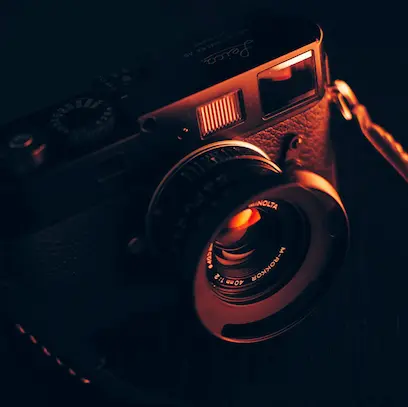
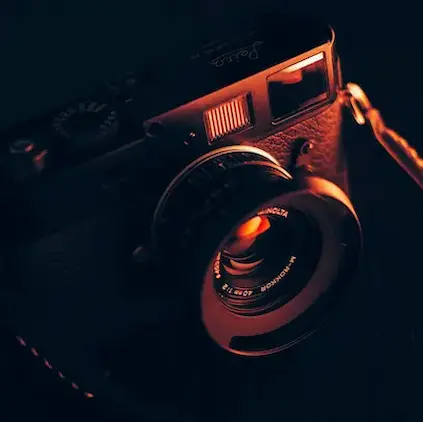
Différez le chargement des images hors écran :zap:

diff --git a/index.html b/index.html
@@ -58,10 +58,10 @@
 				<img src="./assets/images/slider/ryoji-iwata-wUZjnOv7t0g-unsplash.webp" width="990" height="458" class="d-block w-100" alt="Un homme en costume traverse une rue">
 			</div>
 			<div class="carousel-item">
-				<img src="./assets/images/slider/nicholas-green-nPz8akkUmDI-unsplash.webp" width="990" height="458" class="d-block w-100" alt="Une foule de jeunes gens enthousiastes lors d'un concert ou d'un événement.">
+				<img src="./assets/images/slider/nicholas-green-nPz8akkUmDI-unsplash.webp" loading="lazy" width="990" height="458" class="d-block w-100" alt="Une foule de jeunes gens enthousiastes lors d'un concert ou d'un événement.">
 			</div>
 			<div class="carousel-item">
-				<img src="./assets/images/slider/edward-cisneros-3_h6-1NPDGw-unsplash.webp" width="990" height="458" class="d-block w-100" alt="Les mariés s’embrassent devant leurs invités lors de la cérémonie">
+				<img src="./assets/images/slider/edward-cisneros-3_h6-1NPDGw-unsplash.webp" loading="lazy" width="990" height="458" class="d-block w-100" alt="Les mariés s’embrassent devant leurs invités lors de la cérémonie">
 			</div>
 		</div>
 		<button class="carousel-control-prev" type="button" data-bs-target="#carouselExampleIndicators" data-bs-slide="prev">
@@ -94,10 +94,10 @@
 			<img data-gallery-tag="Entreprises" class="gallery-item" src="./assets/images/gallery/entreprise/jason-goodman-tHO1_OuKbg0-unsplash.webp" alt="Une ambiance détendue au bureau entre deux jeunes collègues"/>
 			<img data-gallery-tag="Mariages" class="gallery-item" src="./assets/images/gallery/mariage/hannah-busing-RvF2R_qMpRk-unsplash.webp" alt="Deux mains qui s’unissent"/>
 			<img data-gallery-tag="Portrait" class="gallery-item" src="./assets/images/gallery/portraits/ade-tunji-rVkhWWZFAtQ-unsplash.webp" alt="Le portrait d’un jeune homme qui ferme les yeux"/>
-			<img data-gallery-tag="Mariages" class="gallery-item" src="./assets/images/gallery/mariage/jakob-owens-SiniLJkXhMc-unsplash.webp" alt="Deux couples heureux qui s’envolent pour leur lune de miel"/>
-			<img data-gallery-tag="Portrait" class="gallery-item" src="./assets/images/gallery/portraits/nino-van-prattenburg--443cl1uR_8-unsplash.webp" alt="Le portrait d’une fille devant un grillage"/>
-			<img data-gallery-tag="Concert" class="gallery-item" src="./assets/images/gallery/concerts/austin-neill-hgO1wFPXl3I-unsplash.webp" alt="Un artiste en train de chanter avec un micro"/>
-			<img data-gallery-tag="Entreprises" class="gallery-item" src="./assets/images/gallery/entreprise/mateus-campos-felipe-Fsgzm8N0hIY-unsplash.webp" alt="Une jeune femme souriante face à son PC dans un environnement de travail"/>
+			<img data-gallery-tag="Mariages" class="gallery-item" src="./assets/images/gallery/mariage/jakob-owens-SiniLJkXhMc-unsplash.webp" loading="lazy" width="304" height="304" alt="Deux couples heureux qui s’envolent pour leur lune de miel"/>
+			<img data-gallery-tag="Portrait" class="gallery-item" src="./assets/images/gallery/portraits/nino-van-prattenburg--443cl1uR_8-unsplash.webp" loading="lazy" width="304" height="304" alt="Le portrait d’une fille devant un grillage"/>
+			<img data-gallery-tag="Concert" class="gallery-item" src="./assets/images/gallery/concerts/austin-neill-hgO1wFPXl3I-unsplash.webp" loading="lazy" width="304" height="304" alt="Un artiste en train de chanter avec un micro"/>
+			<img data-gallery-tag="Entreprises" class="gallery-item" src="./assets/images/gallery/entreprise/mateus-campos-felipe-Fsgzm8N0hIY-unsplash.webp" loading="lazy" width="304" height="304" alt="Une jeune femme souriante face à son PC dans un environnement de travail"/>
 		</div>
 	</div>
 	<div class="quote">
@@ -182,7 +182,7 @@
 			</div>
 		</div>
 		<div class="picture right">
-			<img src="./assets/images/camera.webp" width="2024" height="2020" alt="Une caméra numérique professionnelle">
+			<img src="./assets/images/camera.webp" loading="lazy" width="423" height="422" alt="Une caméra numérique professionnelle">
 		</div>
 	</div>
 </footer>
